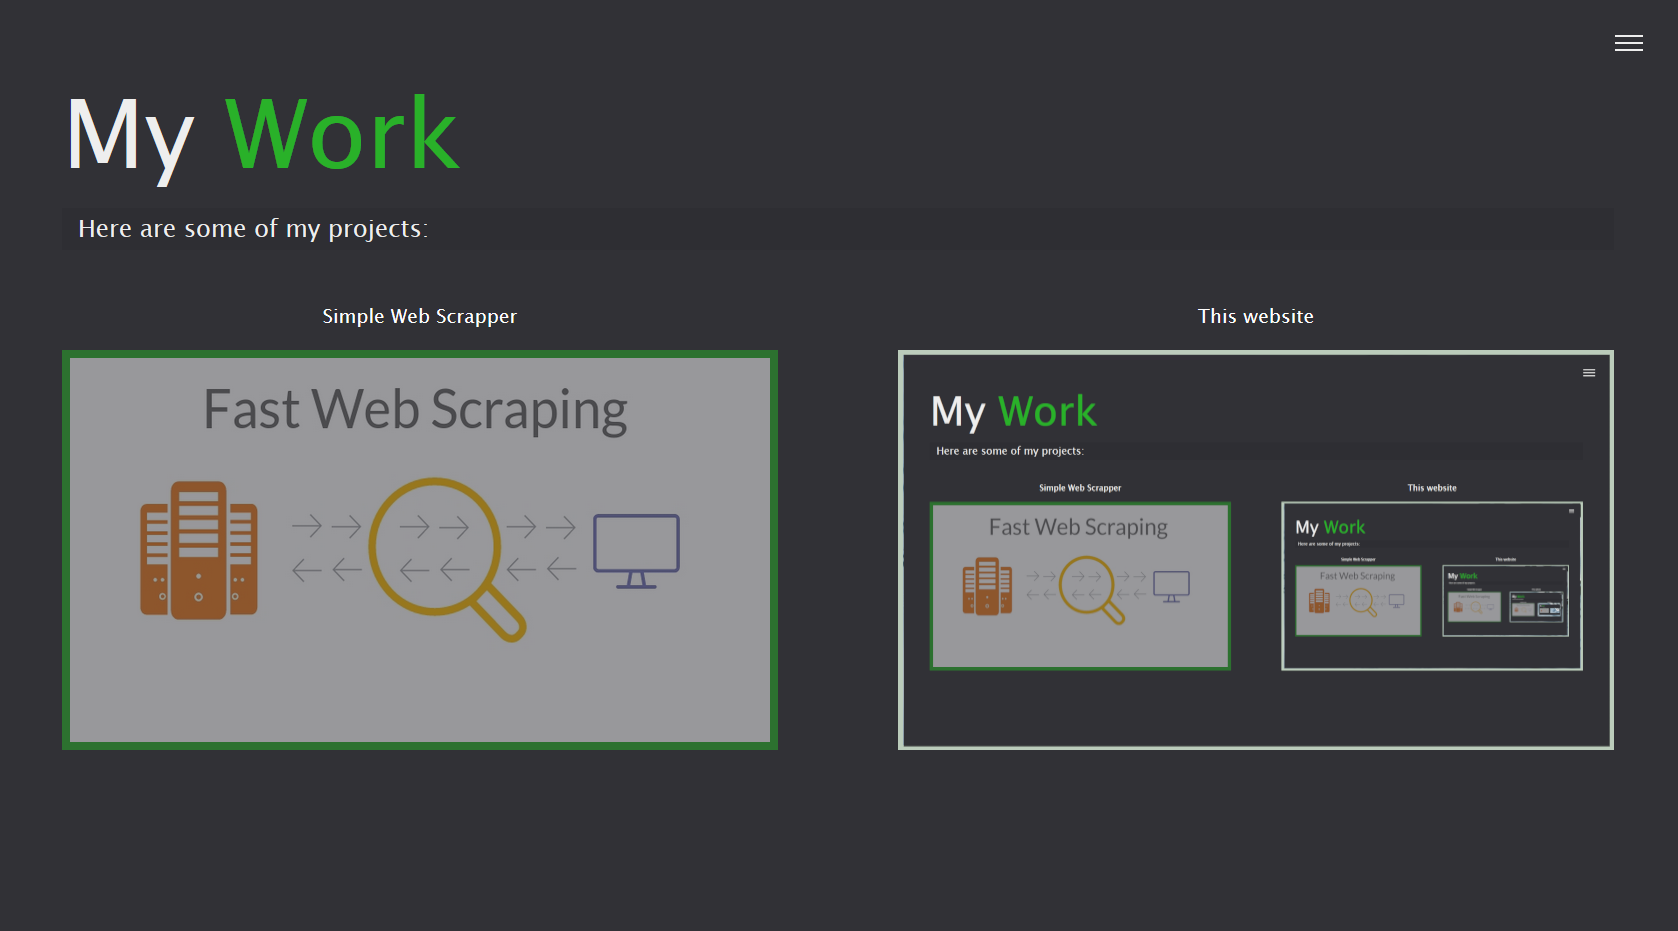
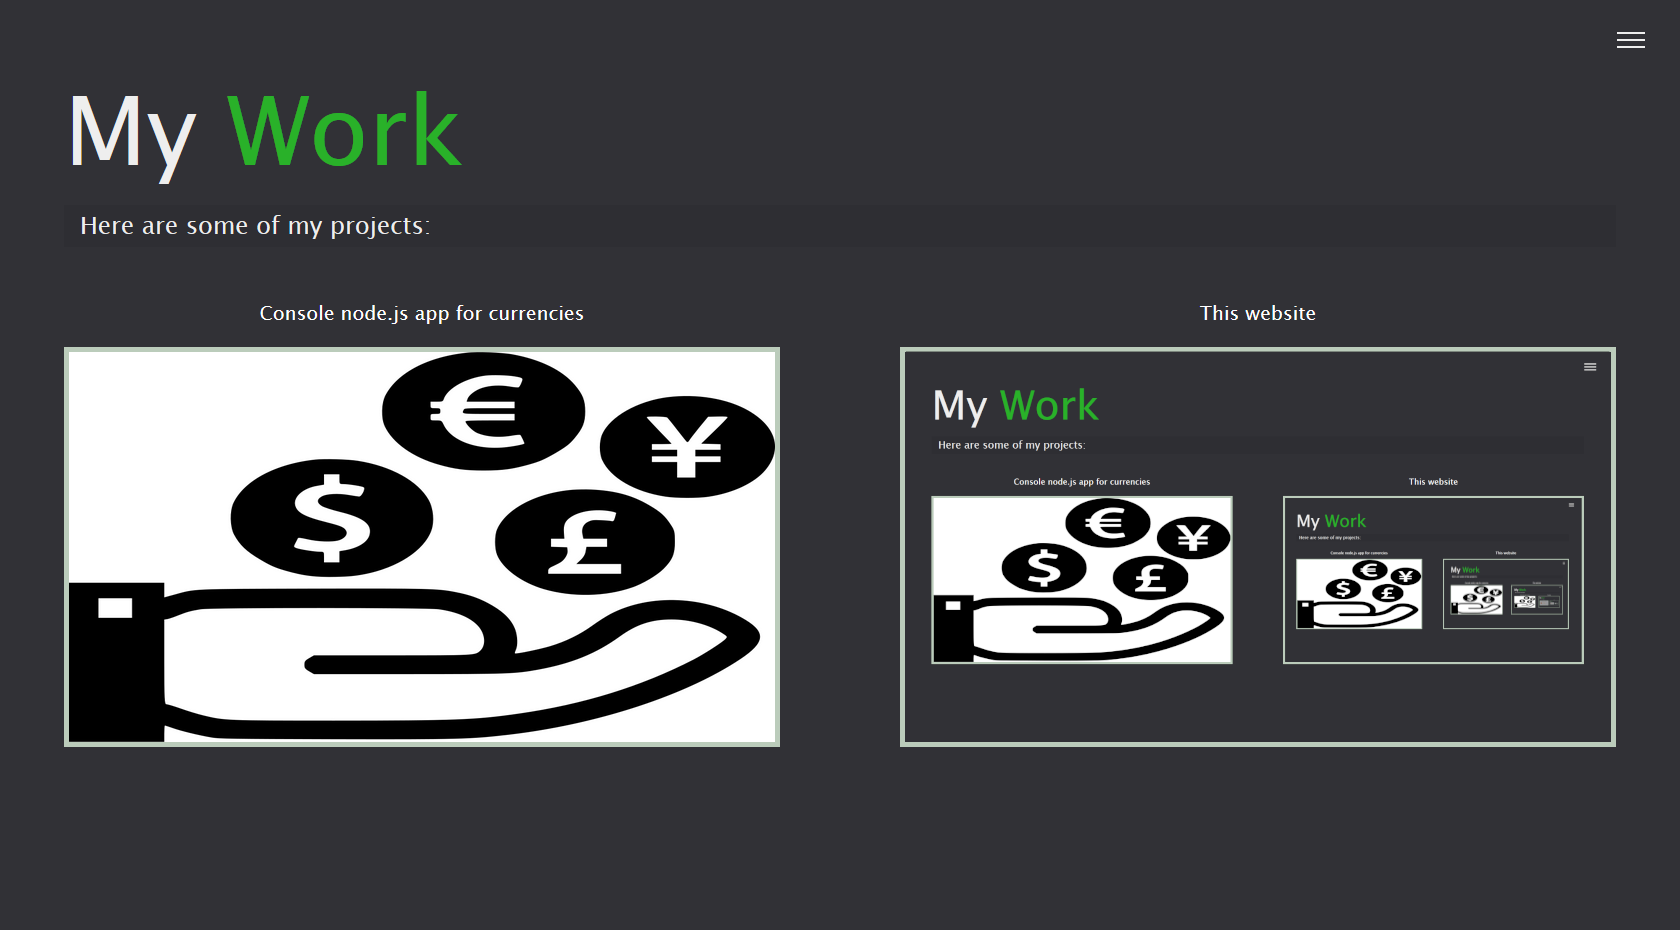
Updates

diff --git a/work.html b/work.html
@@ -42,15 +42,15 @@
       </h2>
       <div class="projects">
         <div class="item">
-          <a href="#!">
-            <p class="project-title">Simple Web Scrapper</p>
-            <img src="img/parsing.jpg" alt="Project 1" />
+          <a href="https://github.com/swietjak/cli_currencys">
+            <p class="project-title">Console node.js app for currencies</p>
+            <img src="img/currencies.png" alt="Console node.js app" />
           </a>
         </div>
         <div class="item">
-          <a href="#!">
+          <a href="https://github.com/swietjak/my_portfolio">
             <p class="project-title">This website</p>
-            <img src="img/website_icon.png" alt="Project 1" />
+            <img src="img/website_icon.png" alt="This website" />
           </a>
         </div>
       </div>
